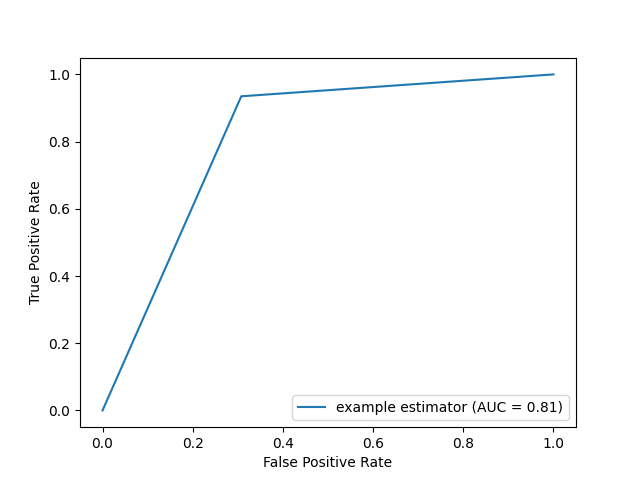
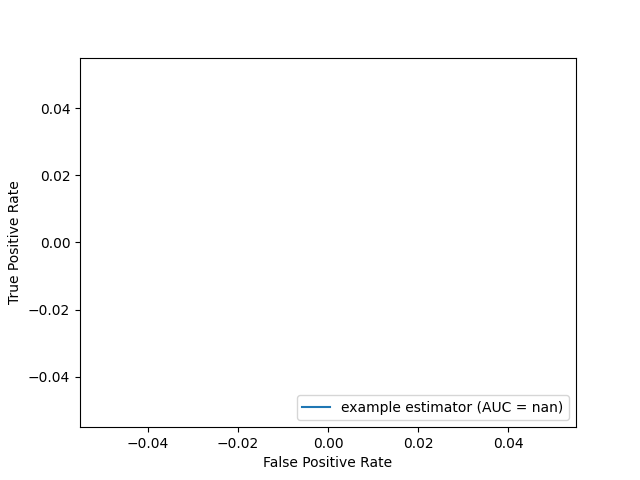
eval update

diff --git a/eval.py b/eval.py
@@ -528,45 +528,66 @@ def evaluate_split_performance(model, dloader, gpu, device, binary_task,
     plot_ROC_path = "./plots/ROC_curve.png",
                                ):
     # print(f"dloader size: {len(dloader)}")
-    y_true, y_pred = eval_dataloader(model, dloader, gpu, device, binary_task)
-    y_pred = np.rint(y_pred)
-    results = np.hstack((y_true, y_pred))
-    y_true = results[:, 0]
-    y_pred = results[:, 1]
-    # print(results[:10, :])
+    if binary_task:
+        y_true, y_pred = eval_dataloader(model, dloader, gpu, device, binary_task)
+        if binary_task:
+            y_pred = np.rint(y_pred)
+        results = np.hstack((y_true, y_pred))
+        y_true = results[:, 0]
+        y_pred = results[:, 1]
+        # print(results[:10, :])
 
-    true_positives = np.sum(np.logical_and(y_true == 1, y_pred == 1))
-    false_positives = np.sum(np.logical_and(y_true == 0, y_pred == 1))
-    false_negative = np.sum(np.logical_and(y_true == 1, y_pred == 0))
-    print(f"True positives: {true_positives}")
-    print(f"False positives: {false_positives}")
-    print(f"False negatives: {false_negative}")
-    vals = len(y_true)
-    correct = np.sum(np.equal(y_true, y_pred))
-    binding_ligands_cnt_true = np.sum(y_true)
-    binding_ligands_cnt_pred = np.sum(y_pred)
-    percent_correct = correct / vals
-    print(f"correct / total: {correct} / {vals}\nAccuracy: {percent_correct}")
-    print(f"TRUE binding : non-binding = {binding_ligands_cnt_true} : {vals - binding_ligands_cnt_true}")
-    print(f"PRED binding : non-binding = {binding_ligands_cnt_pred} : {vals - binding_ligands_cnt_pred}")
-
-    fpr, tpr, thresholds = metrics.roc_curve(y_true, y_pred)
-    roc_auc = metrics.auc(fpr, tpr)
-    display = metrics.RocCurveDisplay(fpr=fpr, tpr=tpr, roc_auc=roc_auc,
-                                      estimator_name='example estimator')
-    display.plot()
-    plt.savefig(plot_ROC_path)
+        true_positives = np.sum(np.logical_and(y_true == 1, y_pred == 1))
+        false_positives = np.sum(np.logical_and(y_true == 0, y_pred == 1))
+        false_negative = np.sum(np.logical_and(y_true == 1, y_pred == 0))
+        print(f"True positives: {true_positives}")
+        print(f"False positives: {false_positives}")
+        print(f"False negatives: {false_negative}")
+        vals = len(y_true)
+        correct = np.sum(np.equal(y_true, y_pred))
+        binding_ligands_cnt_true = np.sum(y_true)
+        binding_ligands_cnt_pred = np.sum(y_pred)
+        percent_correct = correct / vals
+        print(f"correct / total: {correct} / {vals}\nAccuracy: {percent_correct}")
+        print(f"TRUE binding : non-binding = {binding_ligands_cnt_true} : {vals - binding_ligands_cnt_true}")
+        print(f"PRED binding : non-binding = {binding_ligands_cnt_pred} : {vals - binding_ligands_cnt_pred}")
+        fpr, tpr, thresholds = metrics.roc_curve(y_true, y_pred)
+        roc_auc = metrics.auc(fpr, tpr)
+        display = metrics.RocCurveDisplay(fpr=fpr, tpr=tpr, roc_auc=roc_auc,
+                                          estimator_name='example estimator')
+        display.plot()
+        plt.savefig(plot_ROC_path)
+    else:
+        y_true, y_pred = eval_dataloader(model, dloader, gpu, device, binary_task)
+        results = np.hstack((y_true, y_pred))
+        # MSE loss 
+        loss = np.mean((results[:, 0] - results[:, 1]) ** 2)
+        print(f"MSE Loss: {loss}")
+        # print(f"R2 score: {r_squared_error(y_true, y_pred)}")
+        print(results[:10, :])
     return
 
 
 def main():
-    val_dir = "./data_dir/HT4_prosmith_test2/train_val/val.csv"
-    train_dir = "./data_dir/HT4_prosmith_test2/train_val/train.csv"
-    test_dir = "./data_dir/HT4_prosmith_test2/train_val/test.csv"
+    version = "T2"
+    if version == "T1":
+        # T1
+        val_dir = "./data_dir/HT4_prosmith_test2/train_val/val.csv"
+        train_dir = "./data_dir/HT4_prosmith_test2/train_val/train.csv"
+        test_dir = "./data_dir/HT4_prosmith_test2/train_val/test.csv"
+        pretrained_model = "./data_dir/HT4_prosmith_test2/saved_model/HT4_1_1gpus_bs24_1e-05_layers6.txt.pkl"
+        binary_task = True
+    elif version == "T2":
+        # T2
+        val_dir = "./data_dir/prosmith_test2/train_val/val.csv"
+        train_dir = "./data_dir/prosmith_test2/train_val/train.csv"
+        test_dir = "./data_dir/prosmith_test2/train_val/test.csv"
+        pretrained_model = "./data_dir/HT4_prosmith_test2/saved_model/HT4_1_1gpus_bs24_1e-05_layers6.txt.pkl"
+        binary_task = False
+    else:
+        raise ValueError("Invalid version")
 
-    pretrained_model = "./data_dir/HT4_prosmith_test2/saved_model/HT4_1_1gpus_bs24_1e-05_layers6.txt.pkl"
     embed_path = "./data_dir/HT4_prosmith_test2/embeddings"
-    binary_task = True
     gpu = 0
     if torch.cuda.is_available():
         device = torch.device('cuda')
